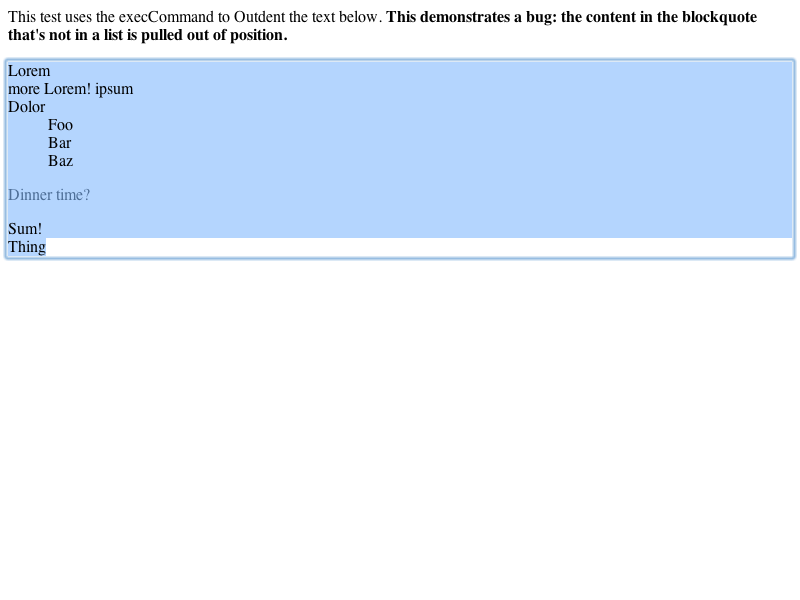
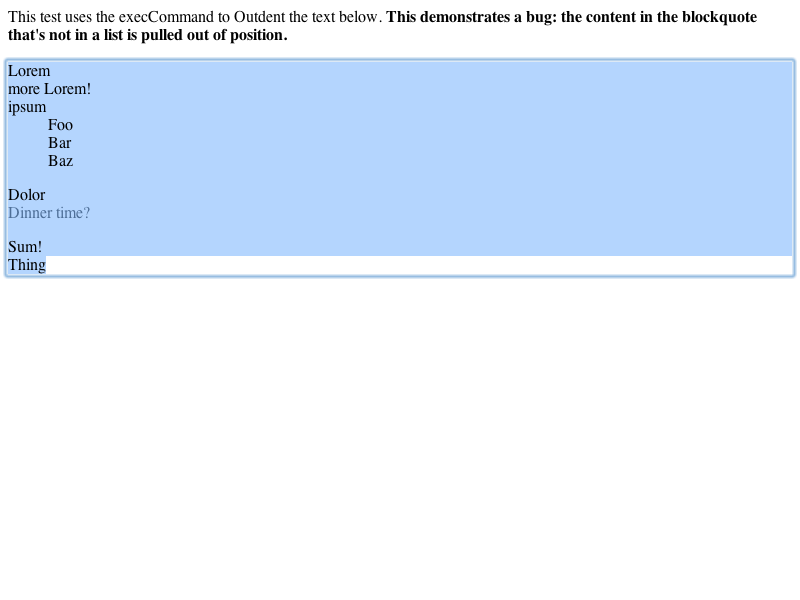
WebCore:
2009-07-14  Ryosuke Niwa  <rniwa@google.com>

        Reviewed by Eric Seidel.

        Outdenting a line inside a blockquote tag does nothing
        https://bugs.webkit.org/show_bug.cgi?id=25316

        The bug was caused by the code checking whether the blockquote is created by WebKit or not.
        We simply remove this code to be consistent with Firefox and Internet Explorer.
        Also, enclosingBlockFlow == enclosingNode in outdentParagraph isn't a sufficient condition to insert
        the placeholder before the enclosingNode because there could be contents before the current paragraph.
        Instead, we should split the enclosingNode (which is a blockquote) at the starting position of outdentation.
        It turned out that this solves the bug 25315 also: https://bugs.webkit.org/show_bug.cgi?id=25315

        Test: editing/execCommand/outdent-regular-blockquote.html

        * editing/IndentOutdentCommand.cpp:
        (WebCore::isIndentBlockquote): no longer checks whether a blockquote is created by WebKit or not.
        (WebCore::IndentOutdentCommand::outdentParagraph): takes care of the case enclosingBlockFlow == enclosingNode

LayoutTests:

2009-07-14  Ryosuke Niwa  <rniwa@google.com>

        Reviewed by Eric Seidel.

        Outdenting a line inside a blockquote tag does nothing
        https://bugs.webkit.org/show_bug.cgi?id=25315
        https://bugs.webkit.org/show_bug.cgi?id=25316
[…]

Changed region(s): [[0.0, 0.3, 1.0, 0.48], [0.0, 0.15, 0.0625, 0.21], [0.125, 0.12, 0.1562, 0.18]]

diff --git a/LayoutTests/editing/execCommand/outdent-regular-blockquote.html b/LayoutTests/editing/execCommand/outdent-regular-blockquote.html
@@ -1,0 +1,32 @@
+<html>
+<body>
+<p>This tests outdenting "two", the second paragraph in a regular blockquote (not created by WebKit).  After outdenting two, there should be exactly two blockquotes.</p>
+<div id="e" contenteditable="true">
+<blockquote id="test">one<br>two<br>three</blockquote>
+</div>
+
+<ul>
+<li>Before:<span id="c1"></span></li>
+<li>After:<span id="c2"></span></li>
+</ul>
+
+<script type="text/javascript">
+
+if (window.layoutTestController)
+    layoutTestController.dumpAsText();
+
+var e = document.getElementById('e');
+
+document.getElementById('c1').appendChild(document.createTextNode(e.innerHTML));
+
+var s = window.getSelection();
+var r = document.createRange();
+r.setStart(document.getElementById('test'),2);
+r.setEnd(document.getElementById('test'),2);
+s.removeAllRanges();
+s.addRange(r);
+document.execCommand("Outdent", false, "");
+
+document.getElementById('c2').appendChild(document.createTextNode(e.innerHTML));
+
+</script>

diff --git a/WebCore/editing/IndentOutdentCommand.cpp b/WebCore/editing/IndentOutdentCommand.cpp
@@ -57,18 +57,9 @@ static PassRefPtr<HTMLBlockquoteElement> createIndentBlockquoteElement(Document*
     return element.release();
 }
 
-static bool isIndentBlockquote(const Node* node)
-{
-    if (!node || !node->hasTagName(blockquoteTag) || !node->isElementNode())
-        return false;
-
-    const Element* elem = static_cast<const Element*>(node);
-    return elem->getAttribute(classAttr) == indentBlockquoteString();
-}
-
 static bool isListOrIndentBlockquote(const Node* node)
 {
-    return node && (node->hasTagName(ulTag) || node->hasTagName(olTag) || isIndentBlockquote(node));
+    return node && (node->hasTagName(ulTag) || node->hasTagName(olTag) || node->hasTagName(blockquoteTag));
 }
 
 IndentOutdentCommand::IndentOutdentCommand(Document* document, EIndentType typeOfAction, int marginInPixels)
@@ -83,10 +74,10 @@ PassRefPtr<Element> IndentOutdentCommand::prepareBlockquoteLevelForInsertion(con
     int currentBlockquoteLevel = 0;
     int lastBlockquoteLevel = 0;
     Node* node = currentParagraph.deepEquivalent().node();
-    while ((node = enclosingNodeOfType(Position(node->parentNode(), 0), &isIndentBlockquote)))
+    while ((node = enclosingNodeWithTag(Position(node->parentNode(), 0), blockquoteTag)))
         currentBlockquoteLevel++;
     node = lastBlockquote.get();
-    while ((node = enclosingNodeOfType(Position(node->parentNode(), 0), &isIndentBlockquote)))
+    while ((node = enclosingNodeWithTag(Position(node->parentNode(), 0), blockquoteTag)))
         lastBlockquoteLevel++;
     while (currentBlockquoteLevel > lastBlockquoteLevel) {
         RefPtr<Element> newBlockquote = createIndentBlockquoteElement(document());
@@ -95,7 +86,7 @@ PassRefPtr<Element> IndentOutdentCommand::prepareBlockquoteLevelForInsertion(con
         lastBlockquoteLevel++;
     }
     while (currentBlockquoteLevel < lastBlockquoteLevel) {
-        lastBlockquote = static_cast<Element*>(enclosingNodeOfType(Position(lastBlockquote->parentNode(), 0), isIndentBlockquote));
+        lastBlockquote = static_cast<Element*>(enclosingNodeWithTag(Position(lastBlockquote->parentNode(), 0), blockquoteTag));
         lastBlockquoteLevel--;
     }
     RefPtr<Element> placeholder = createBreakElement(document());
@@ -238,7 +229,7 @@ void IndentOutdentCommand::outdentParagraph()
         return;
     }
     
-    // The selection is inside a blockquote
+    // The selection is inside a blockquote i.e. enclosingNode is a blockquote
     VisiblePosition positionInEnclosingBlock = VisiblePosition(Position(enclosingNode, 0));
     VisiblePosition startOfEnclosingBlock = startOfBlock(positionInEnclosingBlock);
     VisiblePosition lastPositionInEnclosingBlock = VisiblePosition(Position(enclosingNode, enclosingNode->childNodeCount()));
@@ -252,8 +243,8 @@ void IndentOutdentCommand::outdentParagraph()
         // just removed one, then this assumption isn't true. By splitting the next containing blockquote after this node, we keep this assumption true
         if (splitPoint) {
             if (Node* splitPointParent = splitPoint->parentNode()) {
-                if (isIndentBlockquote(splitPointParent)
-                    && !isIndentBlockquote(splitPoint)
+                if (splitPointParent->hasTagName(blockquoteTag)
+                    && !splitPoint->hasTagName(blockquoteTag)
                     && isContentEditable(splitPointParent->parentNode())) // We can't outdent if there is no place to go!
                     splitElement(static_cast<Element*>(splitPointParent), splitPoint);
             }
@@ -269,10 +260,14 @@ void IndentOutdentCommand::outdentParagraph()
 
         return;
     }
-    Node* enclosingBlockFlow = enclosingBlockFlowElement(visibleStartOfParagraph);
+    Node* enclosingBlockFlow = enclosingBlock(visibleStartOfParagraph.deepEquivalent().node());
     RefPtr<Node> splitBlockquoteNode = enclosingNode;
     if (enclosingBlockFlow != enclosingNode)
-        splitBlockquoteNode = splitTreeToNode(enclosingBlockFlowElement(visibleStartOfParagraph), enclosingNode, true);
+        splitBlockquoteNode = splitTreeToNode(enclosingBlockFlow, enclosingNode, true);
+    else {
+        // We split the blockquote at where we start outdenting.
+        splitElement(static_cast<Element*>(enclosingNode), visibleStartOfParagraph.deepEquivalent().node());
+    }
     RefPtr<Node> placeholder = createBreakElement(document());
     insertNodeBefore(placeholder, splitBlockquoteNode);
     moveParagraph(startOfParagraph(visibleStartOfParagraph), endOfParagraph(visibleEndOfParagraph), VisiblePosition(Position(placeholder.get(), 0)), true);
